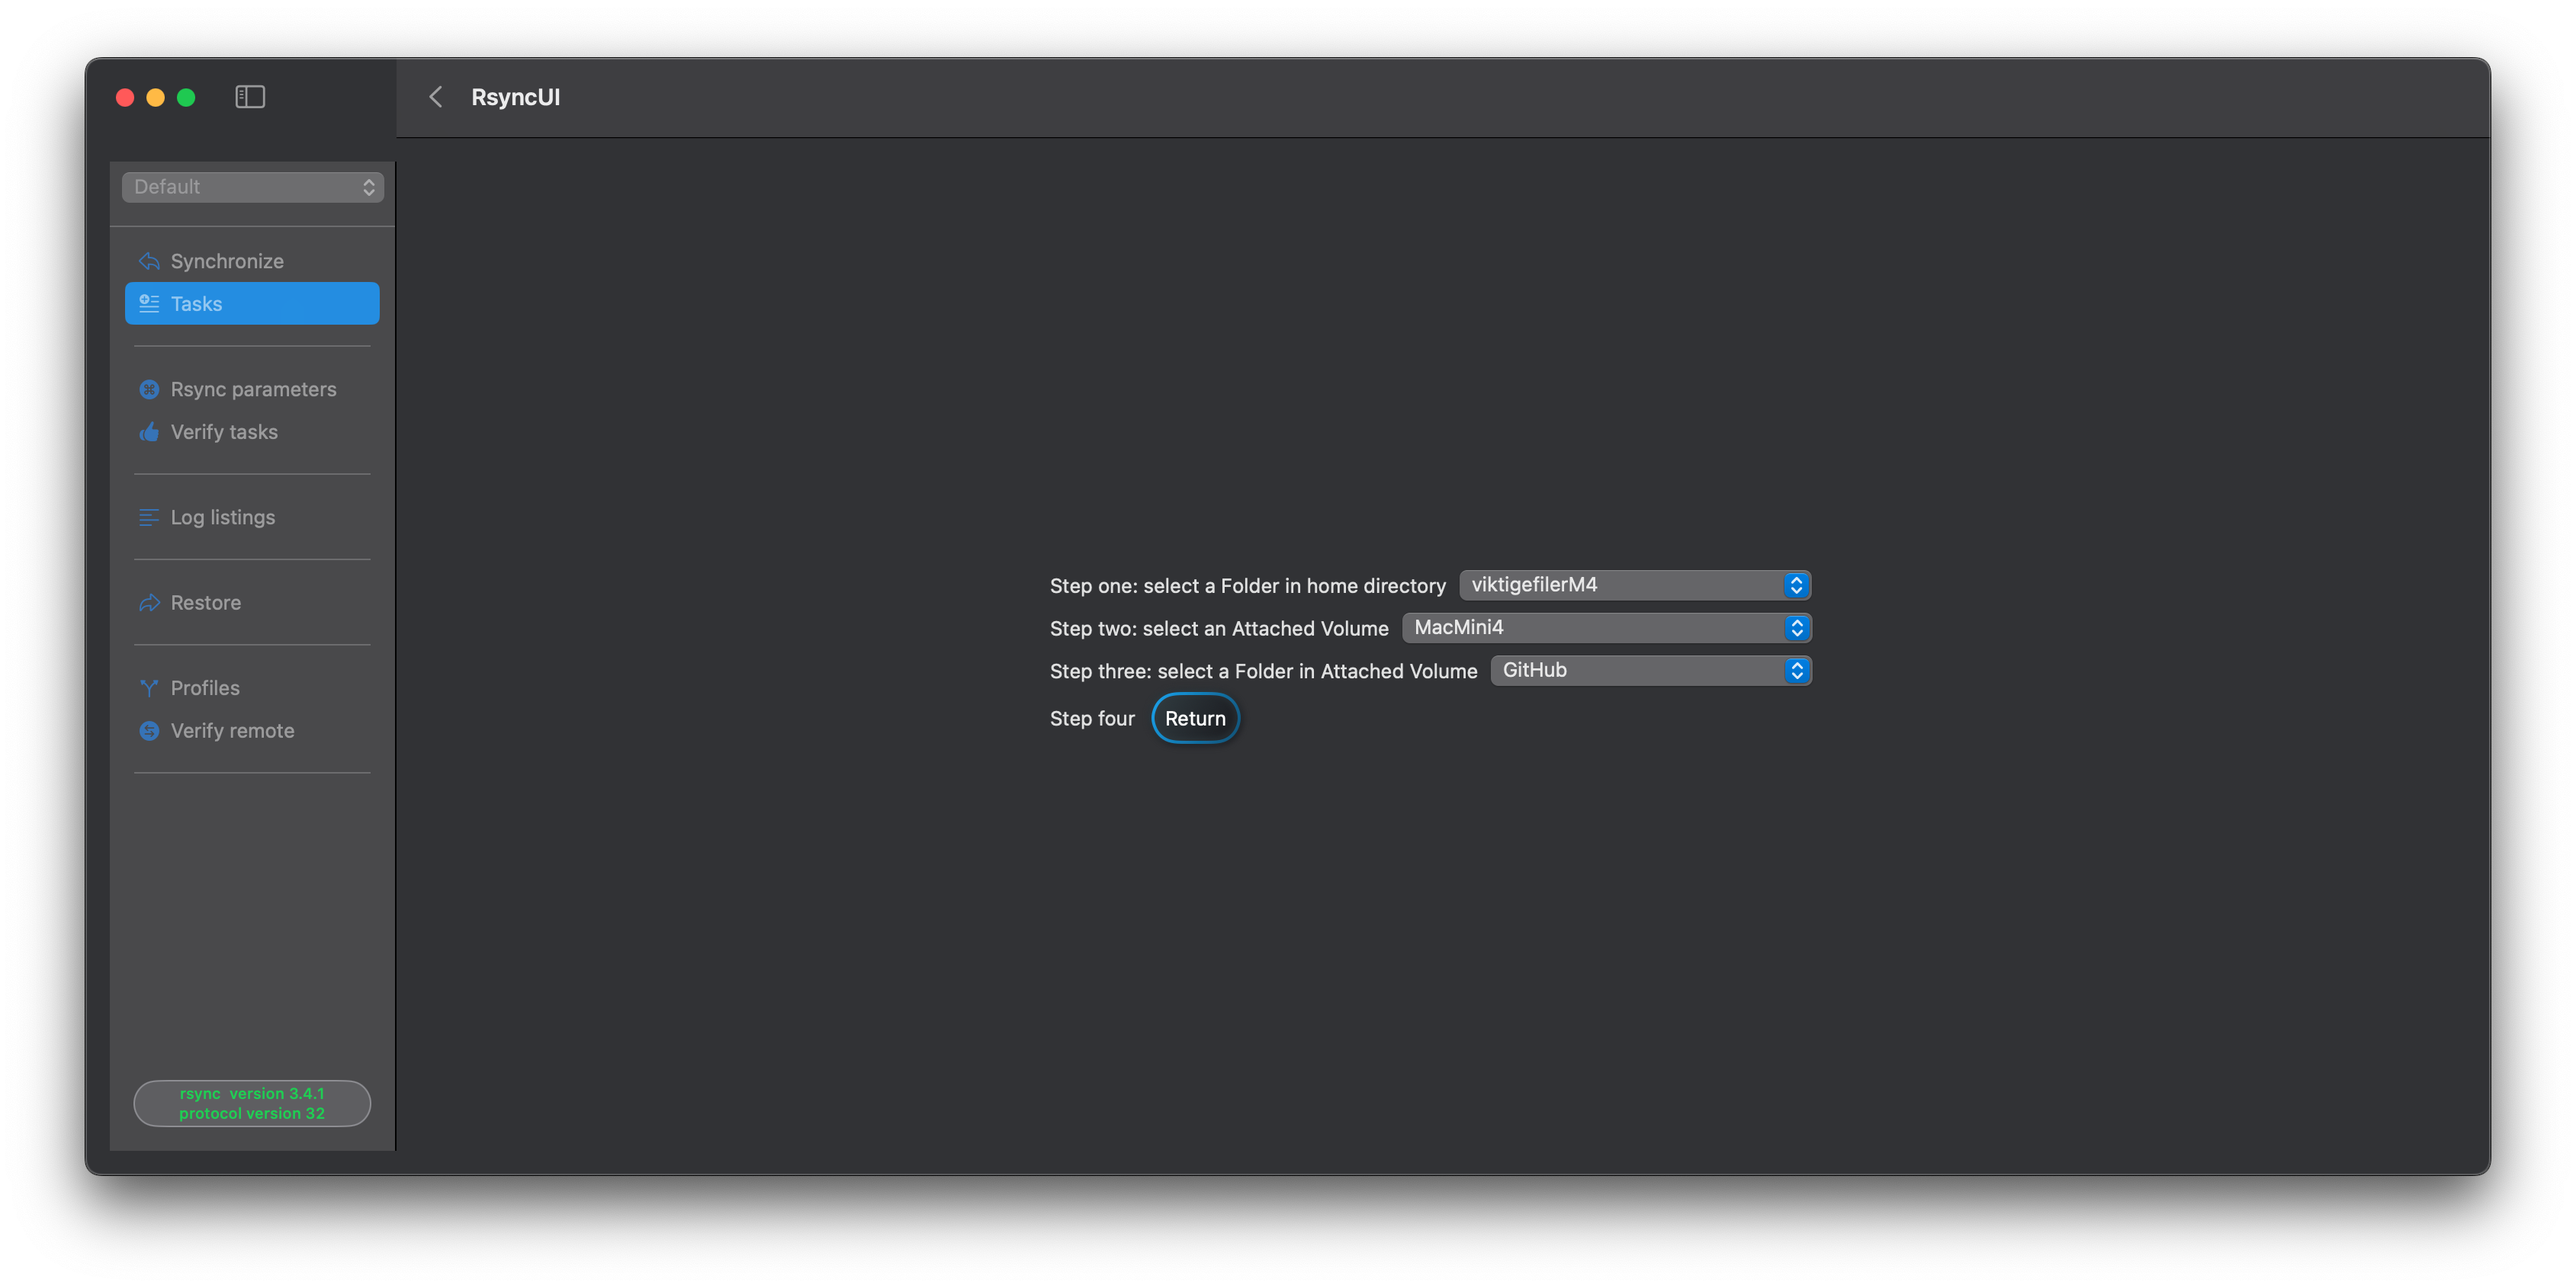
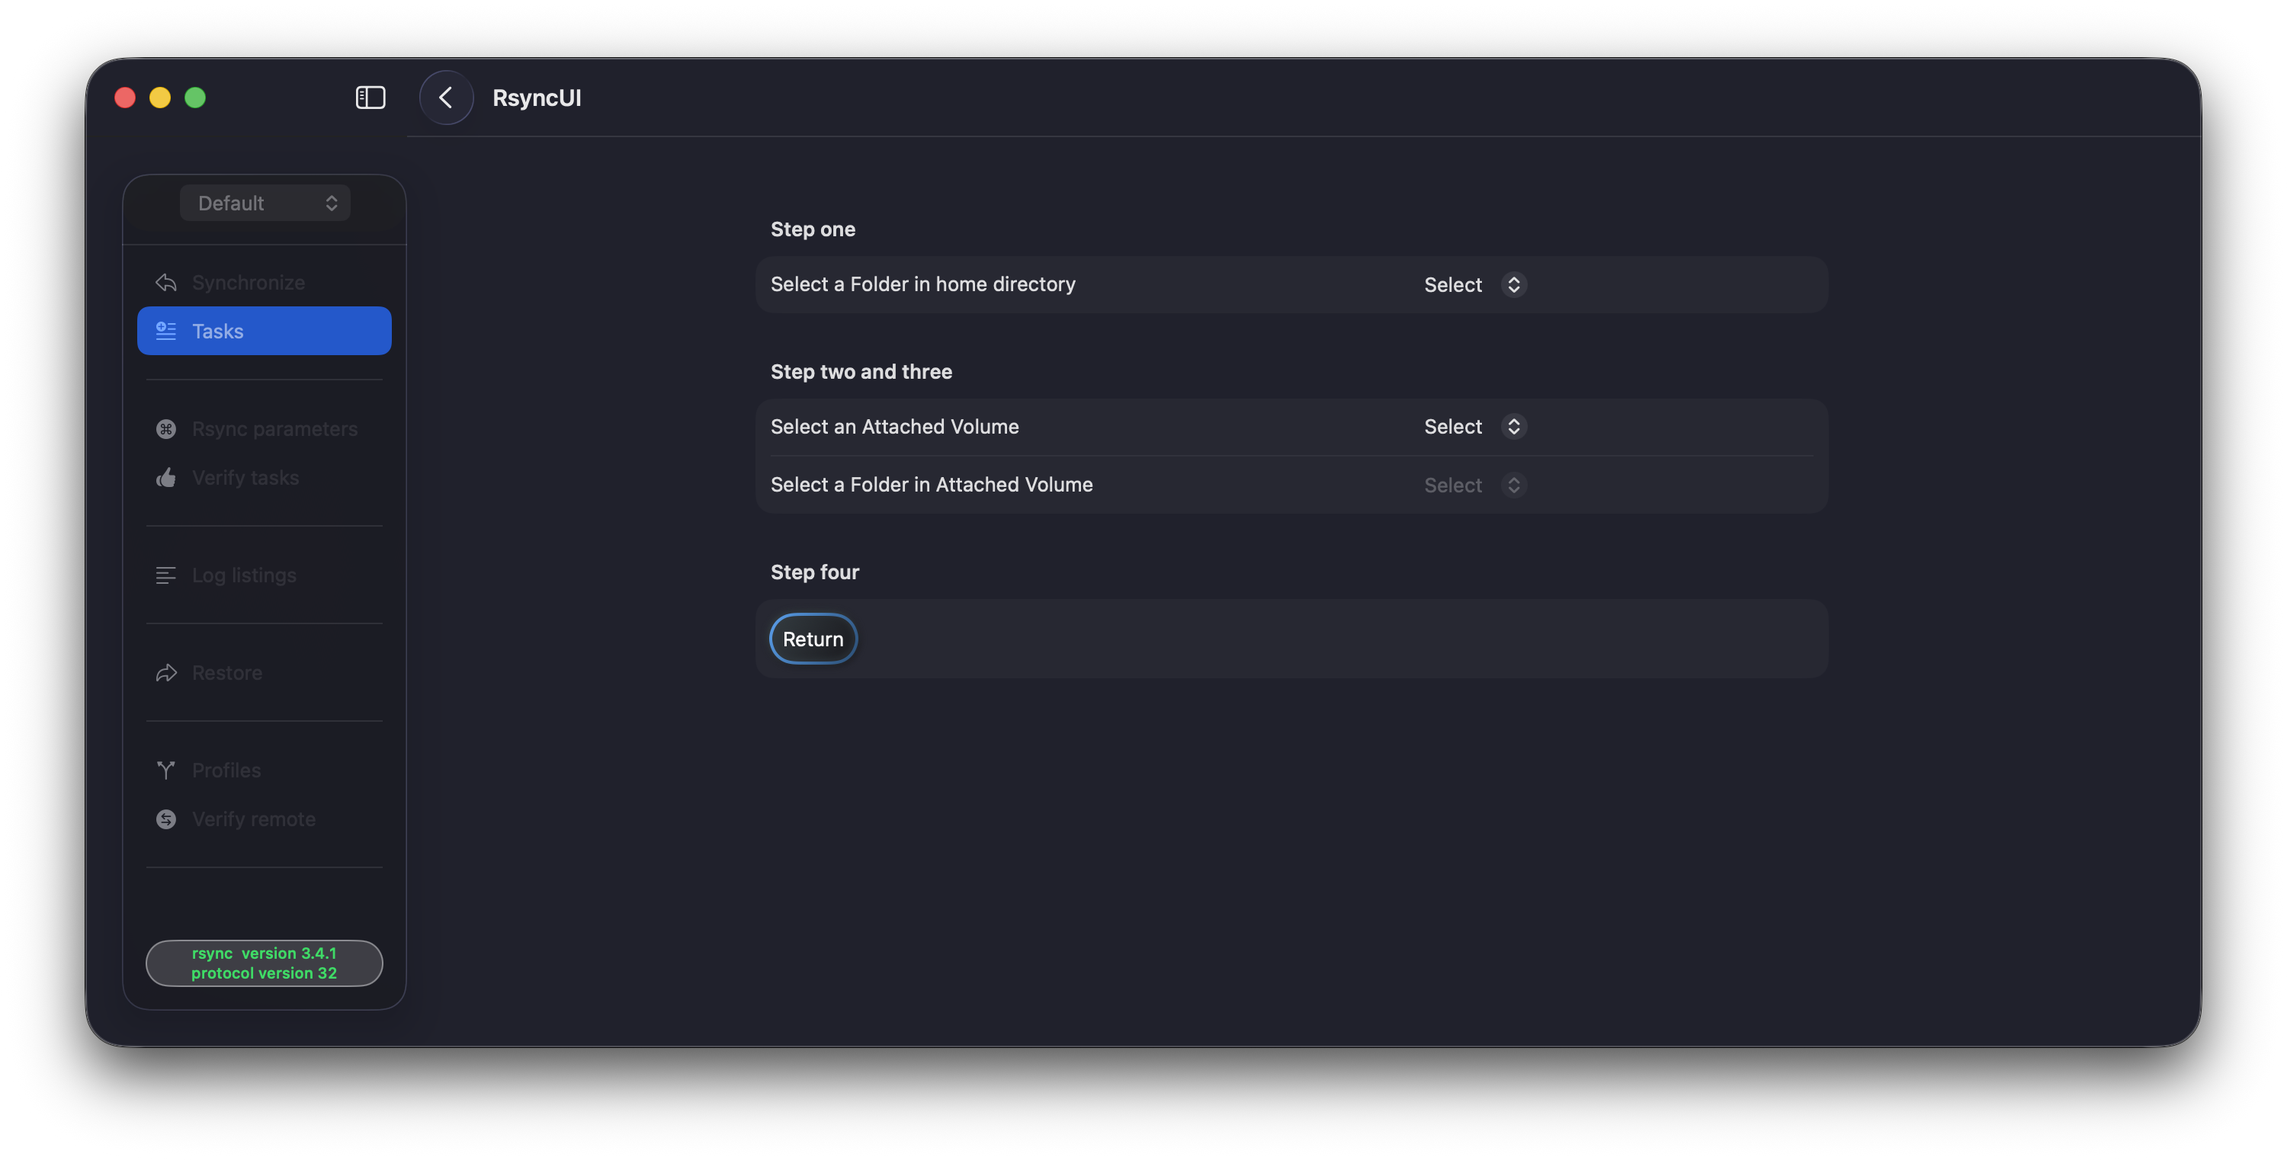
update

diff --git a/content/en/blog/Version263.md b/content/en/blog/Version263.md
@@ -8,42 +8,45 @@ categories = ["changelog"]
 
 ### Version 2.6.3 (build 157) - August 7, 2025
 
-Here are the code updates for the upcoming release, scheduled to be released before the end of August 2025:
+Updates for the Upcoming Release (Scheduled for Release Before the End of August 2025):
+
+#### Dev build #3 - not yet released
+
+In both Home Catalogs and Quick task, the views have been refactored to utilize Form. Form offers a more streamlined and user-friendly interface. Additionally, data is now saved by default in UserSettings on macOS. When views are reentered, the data is automatically restored.
 
 #### Dev build #2 - August 7
 
-- within Tasks, the option for trailing slash is refactored:
-	- *Add* trailing slash, add a trailing slash to source and destination
-	- *Do not add* trailing slash, don’t add or if added remove
-	- *Do not check*, accept whatever is added, slash or no slash on either
-- within Tasks, the values for *Action* and *Trailing /* is saved during the session if set to other than default values 
-	- values “survive" Add, Update and change profile
-    - values are temporary saved in UserDefaults
-    - when RsyncUI restarts, the above values is set to default values
+Within the Tasks section, the trailing slash option is refactored as follows:
+
+* **Add trailing slash:** Add a trailing slash to both the source and destination.
+* **Do not add trailing slash:** Do not add a trailing slash, or if added, remove it.
+* **Do not check:** Accept the trailing slash regardless of whether it is present on either the source or destination.
+
+Additionally, the values for the *Action* and *Trailing /* options are saved during the session if set to values other than the default. These values persist across Add, Update, and Profile changes. They are temporarily saved in UserDefaults and are reset to default values when RsyncUI restarts.
 
 Either source or destination is allowed to be empty.
 
-{{< figure src="/images/263/slash.png" alt="" position="center" style="border-radius: 8px;" >}}
 
 #### Dev build #1 - August 4
 
-- the RsyncUI application icon has been updated using the new Icon Composer tool
- 	- this update supports icons in the new macOS Tahoe 26 and incorporates layered icons, the icon has also undergone a slight redesign, featuring a new cloud and numbers as layers in Icon Composer
-- the progress bar displayed during file synchronization has been set to have a fixed width, limiting the maximum number of transferred files
-- the Home catalogs view in the Tasks application has undergone a refactor
-	- select the Home catalogs on the Toolbar in Tasks 
-- A third method for observers, based on AsyncSequence, has been applied, please refer to blog post *Observers* for more details 
- 	- this method is recommended for observing notifications, a crucial component of RsyncUI
- 	- the third method was inspired by a blog post by Majid Jabrayilov, a frequent blogger about Swift and SwiftUI
+- The RsyncUI application icon has been updated using the new Icon Composer tool.
+- This update supports icons in the new macOS Tahoe 26 and incorporates layered icons. The icon has also undergone a slight redesign, featuring a new cloud and numbers as layers in Icon Composer.
+- The progress bar displayed during file synchronization has been set to have a fixed width, limiting the maximum number of transferred files.
+- The Home catalogs view in the Tasks application has undergone a refactor.
+	- Select the Home catalogs on the Toolbar in Tasks.
+- A third method for observers, based on AsyncSequence, has been applied. Please refer to the blog post *Observers* for more details.
+	- This method is recommended for observing notifications, a crucial component of RsyncUI.
+	- The third method was inspired by a blog post by Majid Jabrayilov, a frequent blogger about Swift and SwiftUI.
 
-The updated icon:
+
+#### Updated views
 
 {{< figure src="/images/263/icon.png" alt="" position="center" style="border-radius: 8px;" >}}
 
-The total number, like `9 068` below, is fixed on line:
-
 {{< figure src="/images/263/progress.png" alt="" position="center" style="border-radius: 8px;" >}}
 
-Assist in adding new catalogs, refactored to use pickers:
+{{< figure src="/images/263/slash.png" alt="" position="center" style="border-radius: 8px;" >}}
 
 {{< figure src="/images/263/home.png" alt="" position="center" style="border-radius: 8px;" >}}
+
+{{< figure src="/images/263/quick.png" alt="" position="center" style="border-radius: 8px;" >}}
